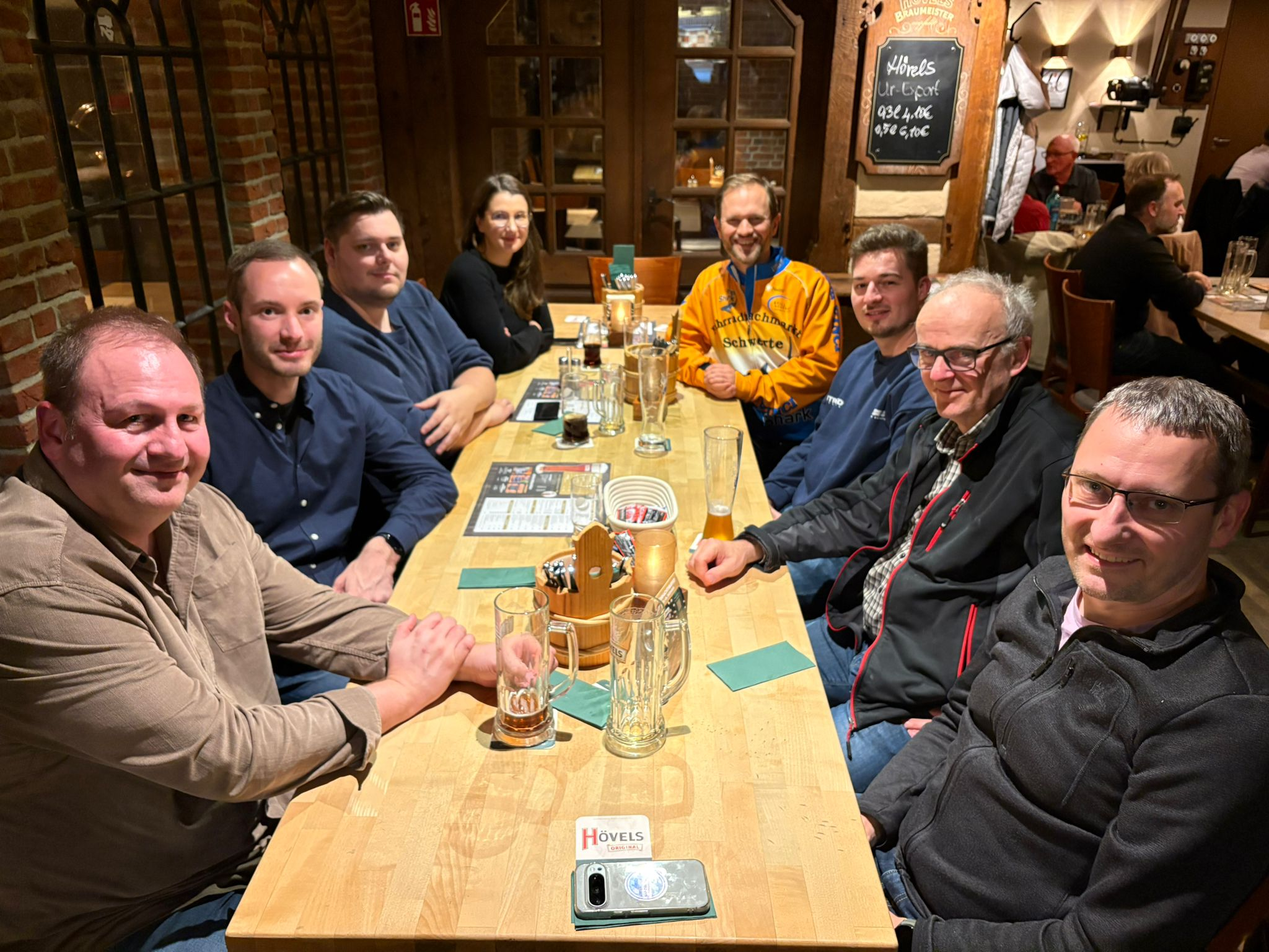
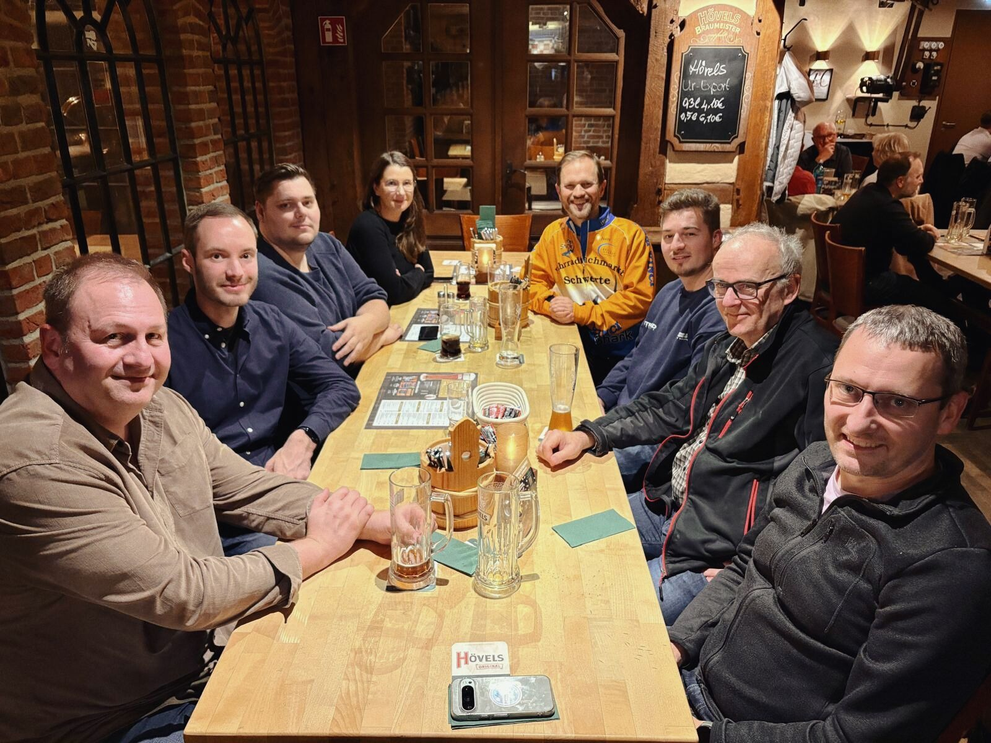
Update image and next event details

diff --git a/index.md b/index.md
@@ -149,8 +149,11 @@ Im Mittelpunkt steht ein lockerer fachlicher Austausch rund um SAP-Themen über 
 
 ## Nächstes Treffen
 
-> Termin: __03.12.2025, 18:30 Uhr__  
-  Ort: tbd
+> __🎄Weihnachtsmarkt Edition🎄__  
+  Termin: __03.12.2025, 18:30 Uhr__  
+  Ort: Treffpunkt am Pfefferkorn's No.1 am Markt  
+  Markt 6, 44137 Dortmund Dortmund  
+  [Route](https://maps.app.goo.gl/EfF6TdYE5UkKAAwW8)
 
 ## Anmeldung
 
